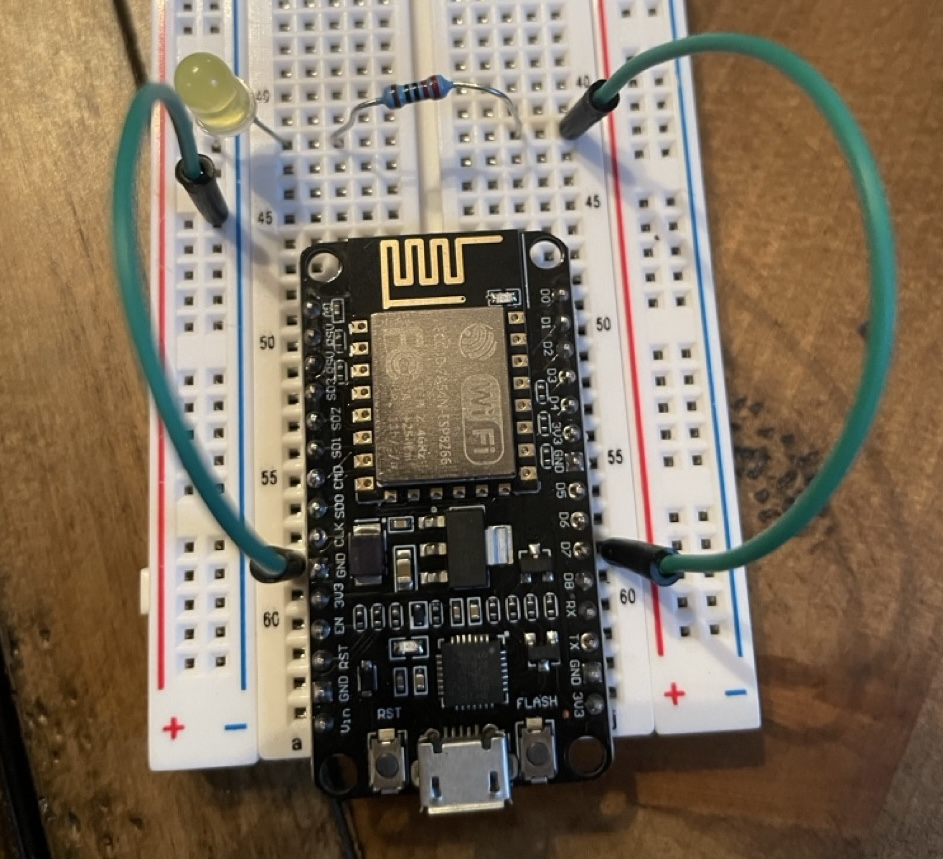
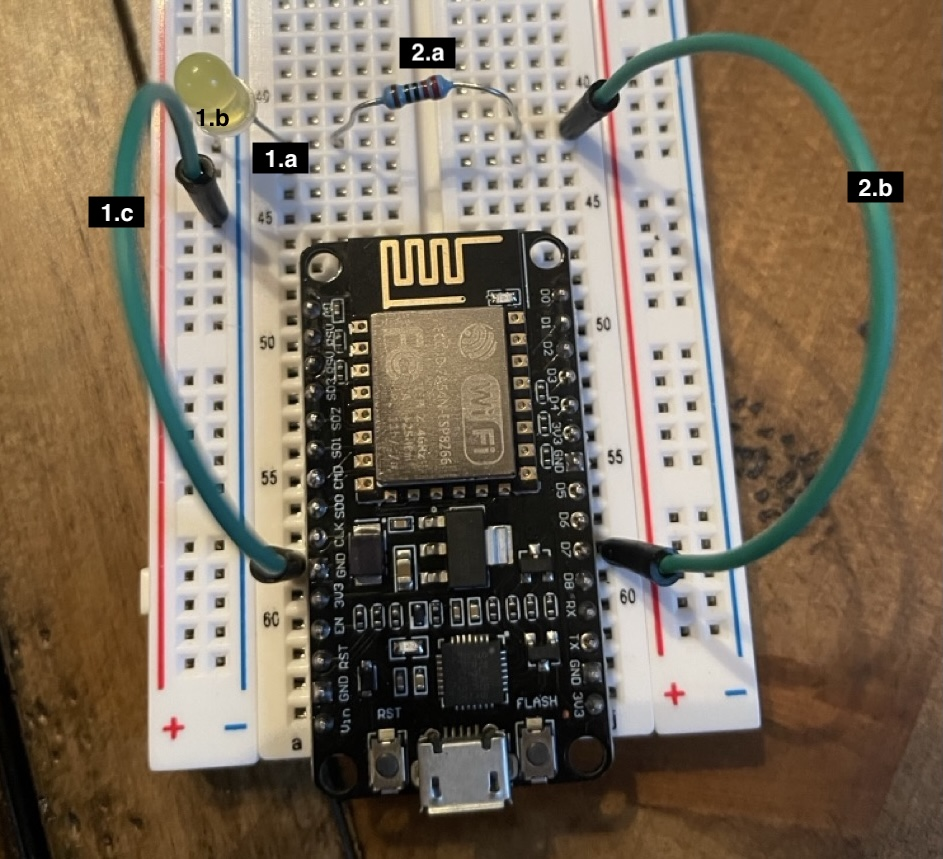
More formatting

diff --git a/docs/milestones/3-MILESTONE.md b/docs/milestones/3-MILESTONE.md
@@ -25,9 +25,10 @@ HARDWARE SPECS:
 
 	<img title="3.1" alt="LED pins" src="../../.images/3.1.jpeg" width="400">
 
-	1. *CONNECT POWER AND RESISTOR TO LED*
-   	- the LED cannot regulate current on its own, so we use a resistor to lower the current
-   	- without the resistor, the high current would destroy the LED
+2. *CONNECT POWER AND RESISTOR TO LED*
+     - the LED cannot regulate current on its own, so we use a resistor to lower the current
+   - without the resistor, the high current would destroy the LED
+
 	<ol type="a">
 	<li>place a resistor pin in the same terminal strip that the LED pin is in, and connect the other resistor pin in a different terminal strip. (in the picture, we use the strip directly across the dip)</li>
 	<li>use connecting wire to connect strip one of the MCU board's data pins (in the picture, we use d7) </li>

diff --git a/docs/milestones/5-MILESTONE.md b/docs/milestones/5-MILESTONE.md
@@ -29,9 +29,9 @@ HARDWARE SPECS:
 
 
 
-4. *PLUG THE LAMP INTO POWER*\
-*confirm the lamp powers on when relay powers on*
-*check the power switch for the lamp is turned on*
+4. *PLUG THE LAMP INTO POWER*
+    - confirm the lamp powers on when relay powers on
+    - if not working, check the power switch for the lamp is turned on
 
 <br>
 
